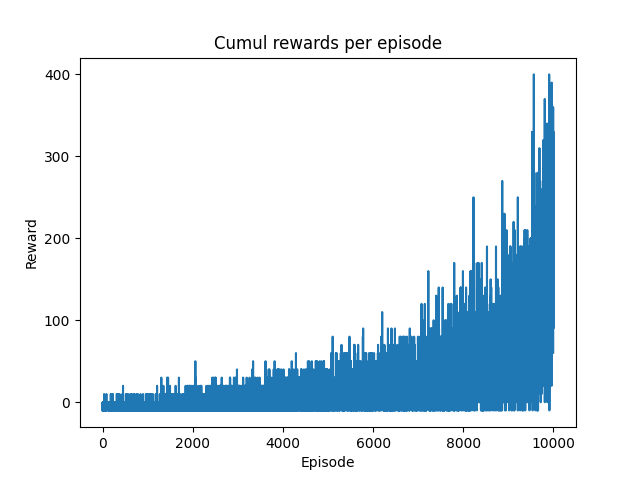
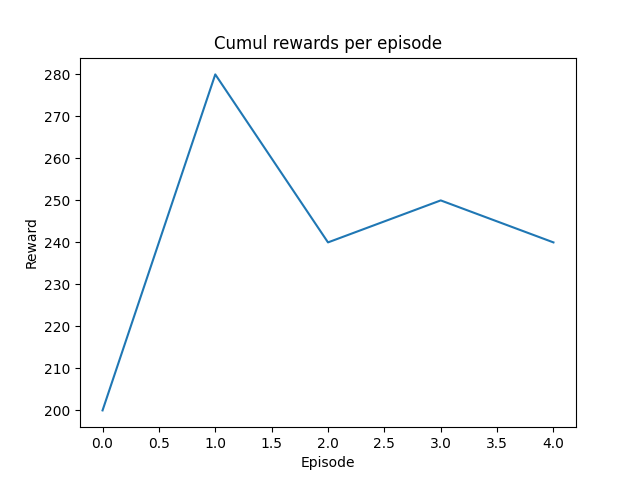
feat: q-learning 1k and 10k with some graphs

diff --git a/q_learning/q_learning.py b/q_learning/q_learning.py
@@ -24,7 +24,7 @@ def run(episodes=1000, episode_len=10_000,is_training=True, render=False, model=
   discount_factor = 0.99
   
   epsilon = 1
-  decay = 1 / episodes
+  decay = 1 / (episodes / 2)
   rng = np.random.default_rng()
   
   rewards_per_episodes = np.zeros(episodes)  
@@ -81,5 +81,5 @@ def run(episodes=1000, episode_len=10_000,is_training=True, render=False, model=
 if __name__ == '__main__':
   N_EPISODES = 1_000
   EPISODE_LEN = 10_000
-  run(episodes=N_EPISODES, episode_len=EPISODE_LEN, model='q_learning_model_1k')
-  # run(5, 1000,False, True, 'q_learning_model_30k')
+  # run(episodes=N_EPISODES, episode_len=EPISODE_LEN, model='q_learning_model_1k')
+  run(5, 1000,False, True, 'q_learning_model_1k')

diff --git a/run.py b/run.py
@@ -1,0 +1,7 @@
+from q_learning.q_learning import run
+
+if __name__ == '__main__':
+  N_EPISODES = 100_000
+  EPISODE_LEN = 10_000
+  run(episodes=N_EPISODES, episode_len=EPISODE_LEN, model='q_learning_model_100k')
+  # run(5, 1000,False, True, 'q_learning_model_100k')
